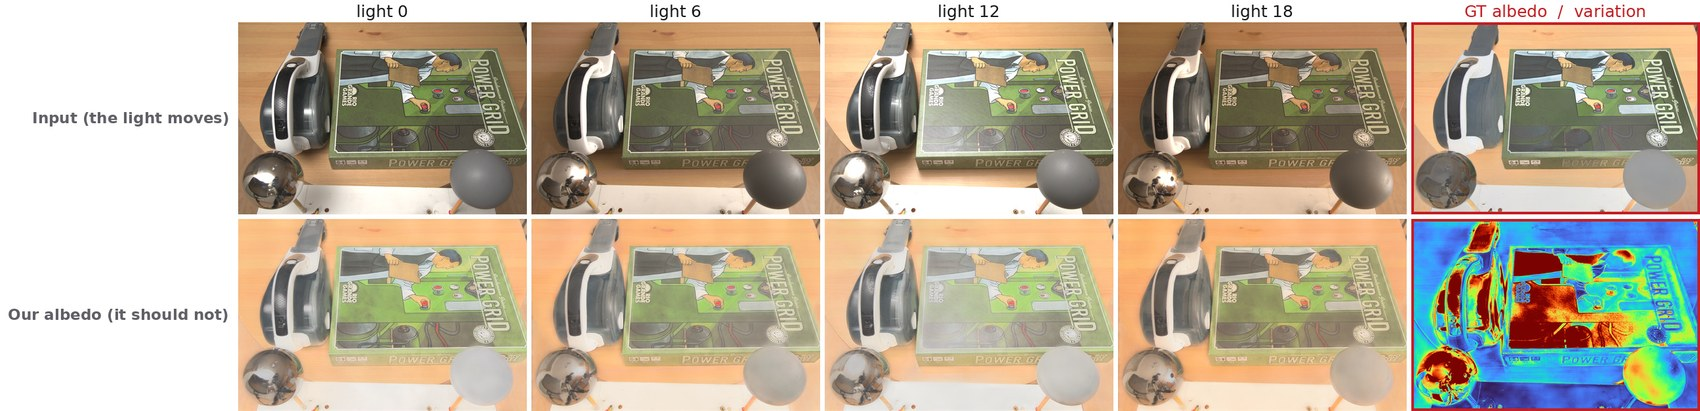
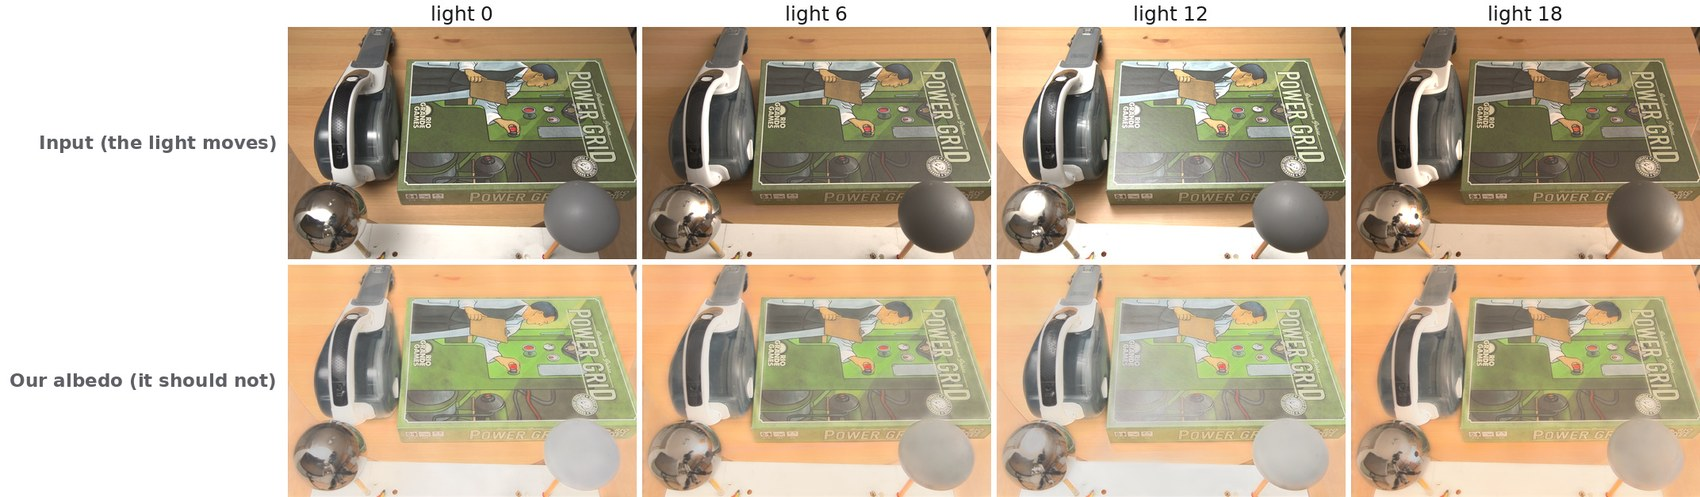
Fix visualization rigor issues: hero heatmap, bubble encoding, missing CIs
Three findings from a review pass:

1. The hero image's 5th column (GT albedo over a Turbo-colormap variance
   map) had no colorbar, no scale, no caption mention -- unreadable and
   unexplained. Crop it out; the self-consistency claim stands on the four
   albedo panels alone. build_teaser() in build_web_figures.py.

2. The trade-off plot encoded Chroma_fid as bubble AREA = k*fid^2, but
   matplotlib's s= parameter already IS area, so the actual encoding was
   area ~ fid^2, radius ~ fid -- perceived size scaled quadratically with
   the represented quantity (Cleveland & McGill 1984: readers judge area
   near-linearly). Fixed to area = k*fid. CRefNet/Marigold-App's tied,
   overlapping markers now get a leader-line label instead of stacking text
   on the collision.

3. Neither the web page nor the README carried the 95% percentile-bootstrap
   confidence intervals the thesis table (tab:mid) already reports for
   C_mat, Chroma_err and Cast_rel -- point estimates only, no way to judge
   which gaps are real. Added as bracketed subtext in both result tables,
   and as error bars on both axes of the trade-off plot.

README's figures were being hand-copied outside the builder script, so they
had neither fix. Regenerated both README and portfolio from the same
build_web_figures.py --out call; confirmed byte-identical.

diff --git a/research/cari/index.html b/research/cari/index.html
@@ -394,6 +394,13 @@
 
     .results-table .row-ours td:first-child { color: #38bdf8; }
     .results-table td.best { color: #38bdf8; font-weight: 700; }
+    .results-table .ci {
+      display: block;
+      font-size: 0.68em;
+      font-weight: 400;
+      color: #64748b;
+      margin-top: 2px;
+    }
 
     @media (max-width: 640px) {
       .results-table-wrap { overflow-x: auto; }
@@ -932,7 +939,9 @@
       <h2 class="cari-section-title">Stability and fidelity, scored together</h2>
       <p class="cari-text">
         Held-out MIDIntrinsics split, 30 scenes. All methods run through the identical evaluation
-        harness, on raw un-white-balanced input.
+        harness, on raw un-white-balanced input. Bracketed ranges are 95% percentile-bootstrap
+        confidence intervals over scenes; <code>Chroma_fid</code> carries no interval in the thesis
+        table, so none is invented here.
       </p>
 
       <div class="results-table-wrap">
@@ -949,44 +958,44 @@
           <tbody>
             <tr class="row-ours">
               <td>Ours (full)</td>
-              <td class="best">0.130</td>
-              <td class="best">0.121</td>
-              <td>0.421</td>
+              <td class="best">0.130<span class="ci">[.117–.144]</span></td>
+              <td class="best">0.121<span class="ci">[.102–.143]</span></td>
+              <td>0.421<span class="ci">[.357–.485]</span></td>
               <td>0.941</td>
             </tr>
             <tr class="row-ours">
               <td>Ours (base CARI)</td>
-              <td>0.157</td>
-              <td>0.129</td>
-              <td>0.425</td>
+              <td>0.157<span class="ci">[.141–.174]</span></td>
+              <td>0.129<span class="ci">[.109–.150]</span></td>
+              <td>0.425<span class="ci">[.360–.491]</span></td>
               <td class="best">0.999</td>
             </tr>
             <tr>
               <td>CRefNet</td>
-              <td>0.151</td>
-              <td>0.201</td>
-              <td class="best">0.355</td>
+              <td>0.151<span class="ci">[.138–.164]</span></td>
+              <td>0.201<span class="ci">[.165–.241]</span></td>
+              <td class="best">0.355<span class="ci">[.309–.406]</span></td>
               <td class="dim">0.484</td>
             </tr>
             <tr>
               <td>Marigold-App</td>
-              <td>0.193</td>
-              <td>0.195</td>
-              <td class="best">0.355</td>
+              <td>0.193<span class="ci">[.173–.214]</span></td>
+              <td>0.195<span class="ci">[.152–.245]</span></td>
+              <td class="best">0.355<span class="ci">[.309–.406]</span></td>
               <td class="dim">0.728</td>
             </tr>
             <tr>
               <td>Marigold-Light</td>
-              <td class="dim">0.546</td>
-              <td>0.154</td>
-              <td>0.392</td>
+              <td class="dim">0.546<span class="ci">[.462–.645]</span></td>
+              <td>0.154<span class="ci">[.124–.187]</span></td>
+              <td>0.392<span class="ci">[.333–.459]</span></td>
               <td>1.148</td>
             </tr>
             <tr>
               <td>Ordinal Shading</td>
-              <td>0.252</td>
-              <td>0.148</td>
-              <td class="dim">0.549</td>
+              <td>0.252<span class="ci">[.229–.279]</span></td>
+              <td>0.148<span class="ci">[.130–.166]</span></td>
+              <td class="dim">0.549<span class="ci">[.463–.637]</span></td>
               <td>0.924</td>
             </tr>
           </tbody>
@@ -995,10 +1004,12 @@
 
       <div class="cari-figure" style="margin-top:34px;">
         <img src="../../images/research/cari-tradeoff.jpg"
-             alt="Scatter plot of chroma drift against chroma error. CRefNet and Marigold-App sit at the lowest drift but with large chroma error and small bubbles indicating collapsed colour. Our models sit at moderate drift with the lowest chroma error and near-reference colour spread.">
+             alt="Scatter plot of chroma drift against chroma error, with 95% bootstrap confidence intervals on both axes. CRefNet and Marigold-App sit at the lowest drift but with large chroma error and small bubbles indicating collapsed colour. Our models sit at moderate drift with the lowest chroma error and near-reference colour spread.">
         <p class="fig-caption">
-          <strong>Where the trade-off actually sits.</strong> Bubble size is the fraction of the
-          reference chroma spread that survives.
+          <strong>Where the trade-off actually sits.</strong> Bubble area is proportional to the
+          fraction of the reference chroma spread that survives; error bars are the same 95%
+          percentile-bootstrap intervals over scenes reported in the thesis, so the gaps that
+          matter are the ones the intervals don't overlap on.
         </p>
       </div>
 
